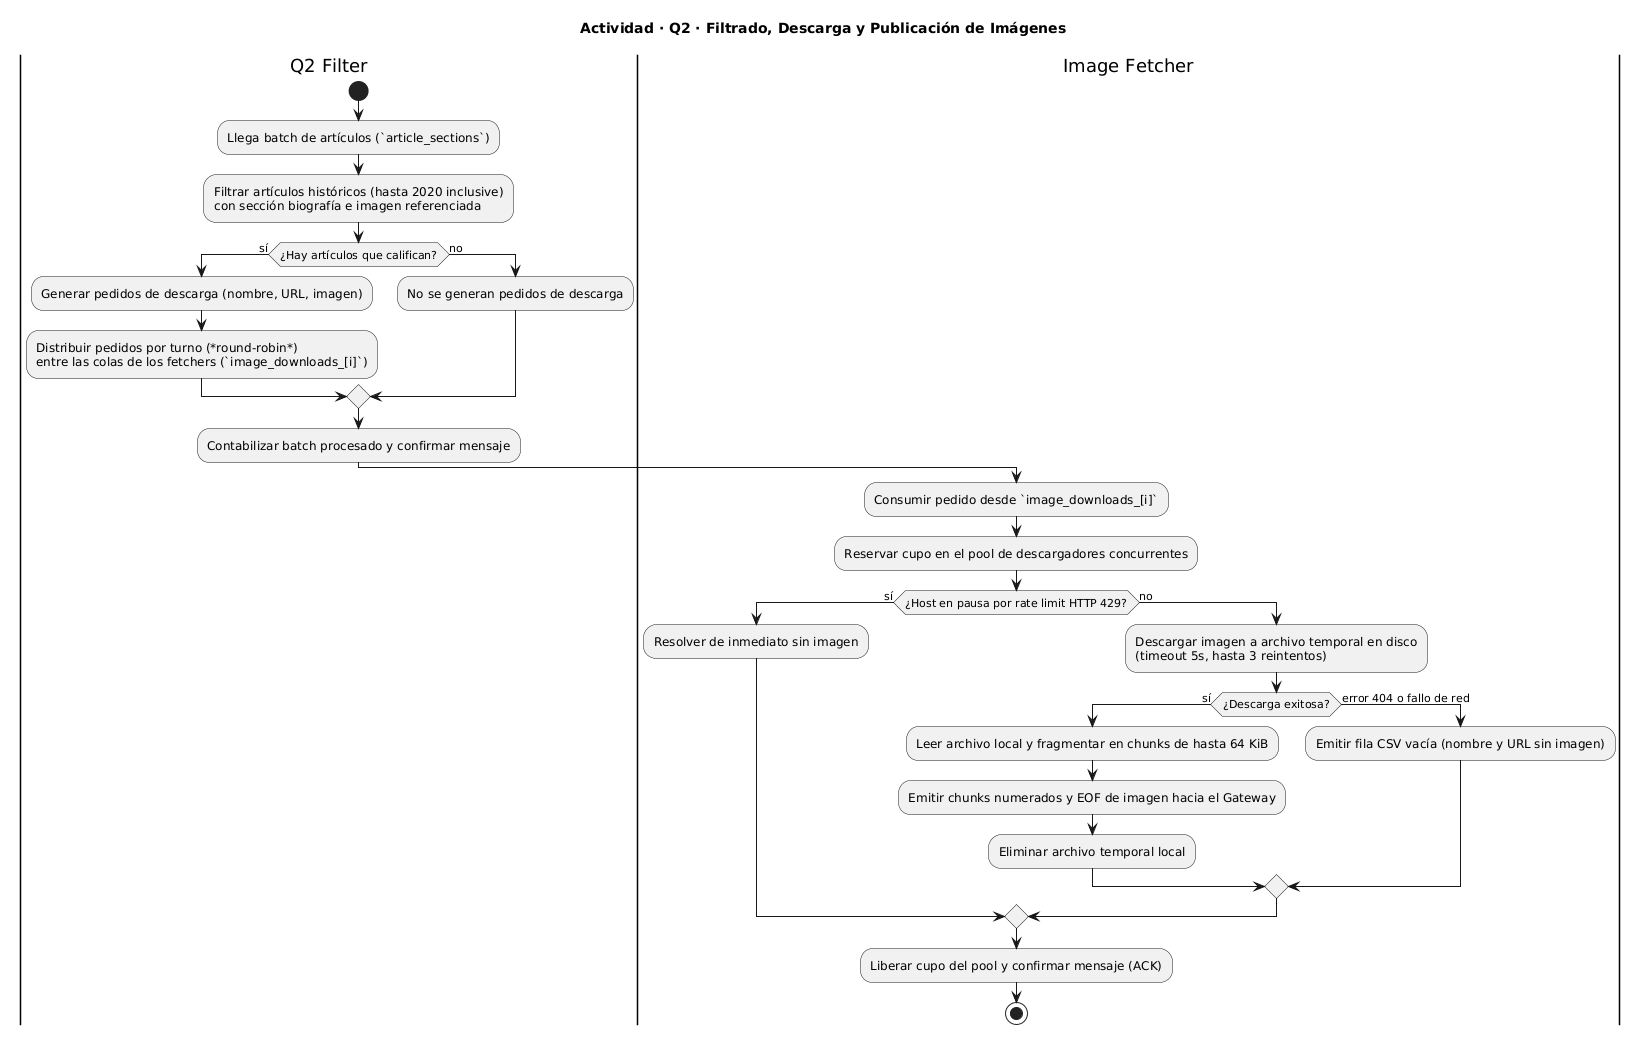
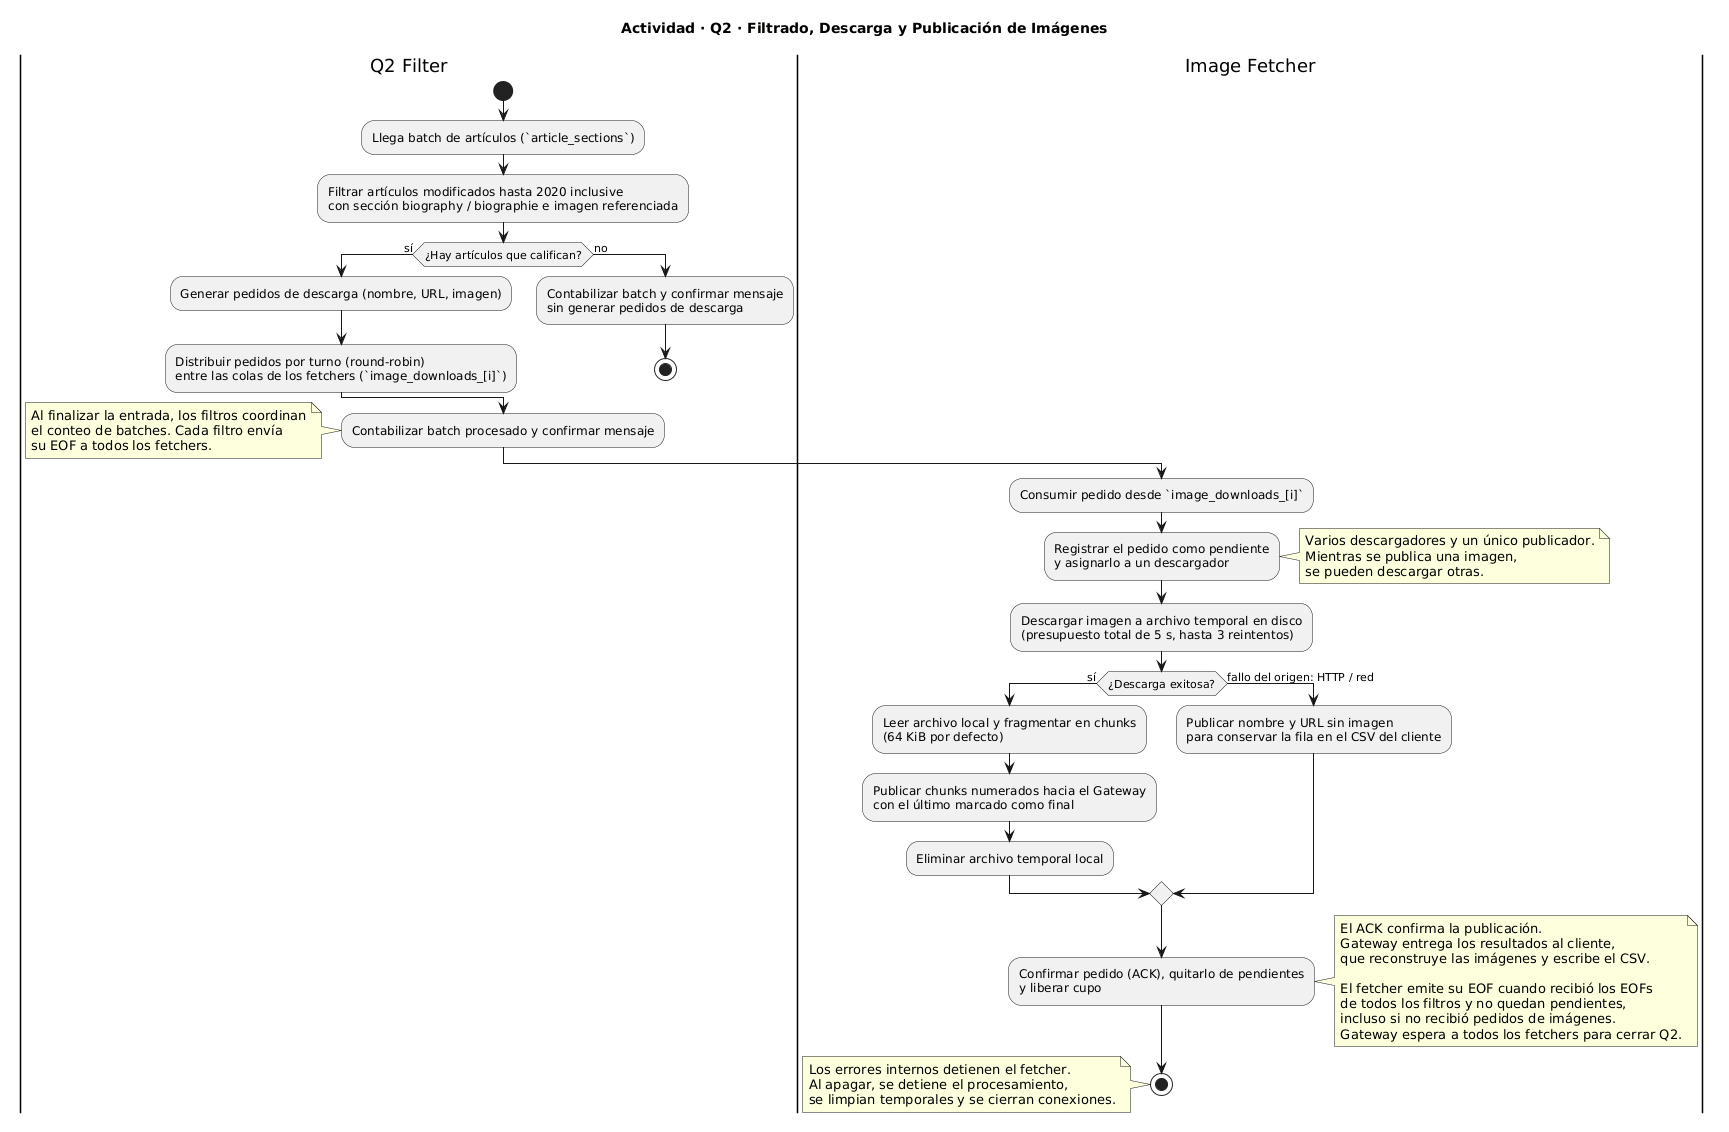
Docs: Actualizo diagrama de actividad q2

diff --git a/Informe.md b/Informe.md
@@ -150,9 +150,9 @@ El código en Go se organiza desacoplando responsabilidades:
 
 Complementa a los diagramas [actividad q2.png](Diagramas/actividad/actividad%20q2.png) y [actividad q5-filter.png](Diagramas/actividad/actividad%20q5-filter.png) (cuyas fuentes `.puml` se ubican en el mismo directorio).
 
-* **Actividad de Q2 — Filtrado y descarga de imágenes**:
-  El ciclo de vida de la consulta comprende dos etapas: el **Q2 Filter**, que evalúa las biografías históricas y distribuye los pedidos por turno (*round-robin*) hacia las colas de los fetchers; y el **Image Fetcher**, que administra un pool concurrente de descargas con presupuesto y pausas por *rate limiting* (`HTTP 429`), fragmenta el archivo local en chunks de hasta 64 KiB y los transmite al Gateway, liberando el temporal y confirmando el mensaje.
-
+* **Actividad de Q2 — Descarga y envío de imágenes**:
+  Conserva el recorrido por las etapas Q2 Filter e Image Fetcher: selección de artículos, reparto de pedidos entre fetchers, descarga a un temporal, publicación de chunks con el último marcado como final (o nombre y URL sin imagen si falla el origen), eliminación del temporal y confirmación del pedido. Cada fetcher tiene descargadores concurrentes y un único publicador. Las notas resumen el cierre: los filtros coordinan el conteo de batches y cada uno envía su EOF a todos los fetchers; cada fetcher espera esos cierres y resuelve sus pendientes antes de emitir su EOF al Gateway. Los errores internos detienen el fetcher; al apagar se limpian temporales y se cierran conexiones.
+  
 * **Actividad de Q5 — Filtrado de candidatos**:
   Modela la concurrencia asíncrona sobre tres canales: la llegada de artículos recientes (retenidos en el `pendingStore` en disco hasta contar con el promedio), el arribo del promedio global por el exchange `q5_average` (que dispara la lectura por lotes de 1000 artículos, publicación de coincidencias y eliminación del archivo en disco) y la barrera de control de eof de recientes. Finaliza únicamente al converger el promedio recibido y el EOF de recientes confirmado (`hasAverage && recentsEOF`).
 
